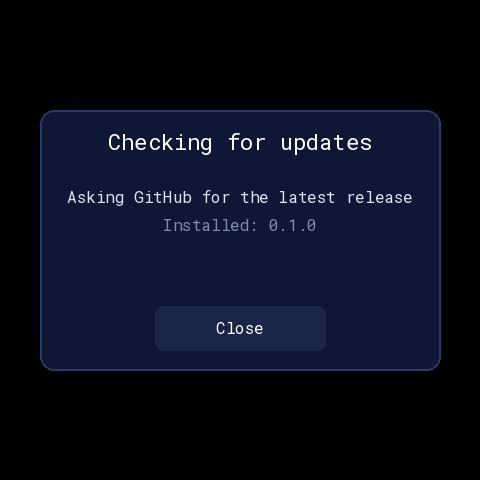
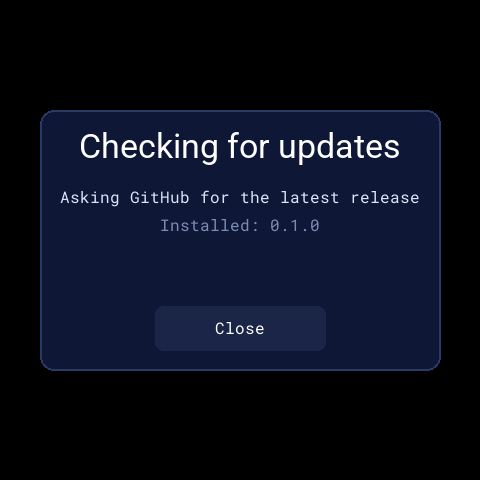
Update card renders: the title in Roboto 34, as the firmware draws it

diff --git a/tools/render_pages.py b/tools/render_pages.py
@@ -662,13 +662,13 @@ def _card(mode):
         d.rounded_rectangle([bx, y0 + btn_y, bx + c["BTN_W"], y0 + btn_y + c["BTN_H"]], 8, fill=(0x1A, 0x25, 0x47))
         d.text((bx + c["BTN_W"] // 2, y0 + btn_y + c["BTN_H"] // 2), label, font=FONT[16], fill=WHITE, anchor="mm")
     if mode == "checking":
-        line("Checking for updates", 16, 22, WHITE); line("Asking GitHub for the latest release", l1y, 16, (0xDC, 0xE4, 0xF8))
+        line("Checking for updates", 16, "s34", WHITE); line("Asking GitHub for the latest release", l1y, 16, (0xDC, 0xE4, 0xF8))
         line("Installed: 0.1.0", l2y, 16, MUTED); one_button("Close"); name = "overlay-update-checking"
     elif mode == "latest":
-        line("Up to date", 16, 22, WHITE); line("0.1.0 is the latest version", l1y, 16, (0xDC, 0xE4, 0xF8))
+        line("Up to date", 16, "s34", WHITE); line("0.1.0 is the latest version", l1y, 16, (0xDC, 0xE4, 0xF8))
         line("Checks again every hour", l2y, 16, MUTED); one_button("Close"); name = "overlay-update-latest"
     elif mode == "available":
-        line("Update available", 16, 22, WHITE); line("New version: 0.2.0", l1y, 16, (0xDC, 0xE4, 0xF8))
+        line("Update available", 16, "s34", WHITE); line("New version: 0.2.0", l1y, 16, (0xDC, 0xE4, 0xF8))
         line("Installed: 0.1.0 - what's new:", l2y, 16, MUTED)
         nx, ny = x0 + (cw - c["NOTES_W"]) // 2, y0 + c["NOTES_Y"]
         d.rounded_rectangle([nx, ny, nx + c["NOTES_W"], ny + c["NOTES_H"]], 8, fill=(0x0A, 0x11, 0x28))
@@ -678,14 +678,14 @@ def _card(mode):
             font=FONT[16], fill=TEXT, spacing=4)
         button(0, "Not now", (0x1A, 0x25, 0x47)); button(1, "Update", BORDER); name = "overlay-update-available"
     elif mode == "installing":
-        line("Updating firmware", 16, 22, WHITE); line("Downloading", l1y, 16, (0xDC, 0xE4, 0xF8))
+        line("Updating firmware", 16, "s34", WHITE); line("Downloading", l1y, 16, (0xDC, 0xE4, 0xF8))
         line("Keep the power on", l2y, 16, (0xFF, 0xB5, 0x47))
         bx, by = x0 + (cw - c["BAR_W"]) // 2, y0 + c["BAR_Y"]
         d.rounded_rectangle([bx, by, bx + c["BAR_W"], by + c["BAR_H"]], 8, fill=(0x1A, 0x25, 0x47))
         d.rounded_rectangle([bx, by, bx + int(c["BAR_W"] * 0.42), by + c["BAR_H"]], 8, fill=BORDER)
         name = "overlay-update-installing"
     else:
-        line("Couldn't check", 16, 22, WHITE); line("No network connection", l1y, 16, (0xDC, 0xE4, 0xF8))
+        line("Couldn't check", 16, "s34", WHITE); line("No network connection", l1y, 16, (0xDC, 0xE4, 0xF8))
         line("Check the Wi-Fi and try again later", l2y, 16, MUTED); one_button("Close"); name = "overlay-update-failed"
     return img, name
 
@@ -1220,6 +1220,7 @@ def main():
     a = ap.parse_args()
     for sz in (10, 12, 14, 15, 16, 18, 22, 24, 34):
         FONT[sz] = ImageFont.truetype(a.font, sz)
+    FONT["s34"] = ImageFont.truetype(a.sans or a.font, 34)   # setup_title: the update card's title
     FONT[50] = ImageFont.truetype(a.sans or a.font, 50)   # title_big: cap height = the F1 logo's 36 px
     global OUT
     if a.out:
